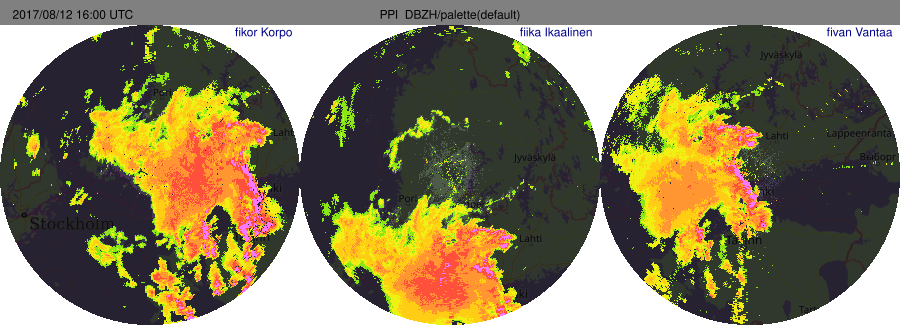
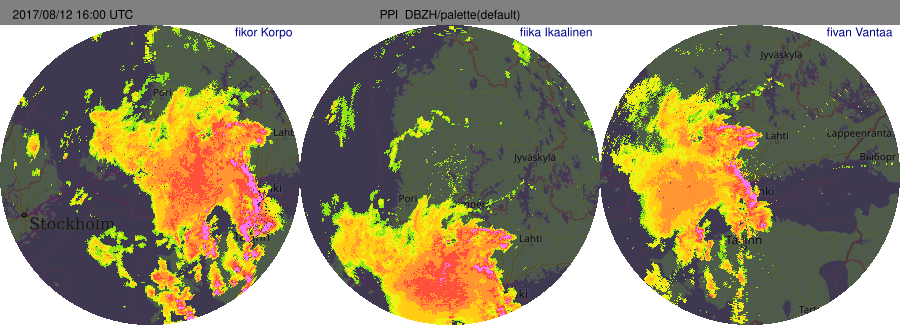
v10.7

diff --git a/docs/svgpage.html b/docs/svgpage.html
@@ -188,7 +188,7 @@ SVG panel example: Multiple styles.</div></div>
 <div class="caption">
 SVG panel example: Metadata panel.</div></div>
  <b>Background</b> maps. External images can be linked with <code>--gLinkImage</code>. For example, maps can be included, aligning the following radar image on top of it with <code>--gAlign</code> <code>HORZ_FILL</code>,VERT_FILL . </p><div class="fragment"><div class="line"><a class="code" href="namespacerack.html">rack</a> --outputPrefix $PWD/out/  \</div>
-<div class="line">   --gTitle <span class="stringliteral">&#39;&#39;</span> --gGroupTitle <span class="stringliteral">&#39;AUTO:&#39;</span> --inputPrefix $PWD/ --script <span class="stringliteral">&#39;--cReset --cProj 3067 --cSize 300 -Q DBZH -c --gLinkImage maps/map-radar:${NOD}-${where:EPSG}-${where:xsize}x${where:ysize}.png  --imageTransp 0.0:0.1,0.9,1 --palette default --gAlign HORZ_FILL,VERT_FILL  -o out-${what:date}T${what:time}-${NOD}.png&#39;</span> data-kiira/201708121600_radar.polar.fikor.h5 data-kiira/201708121600_radar.polar.fiika.h5 data-kiira/201708121600_radar.polar.fivan.h5 -o adding_background_maps.svg</div>
+<div class="line">   --gTitle <span class="stringliteral">&#39;&#39;</span> --gGroupTitle <span class="stringliteral">&#39;AUTO:&#39;</span> --inputPrefix $PWD/ --script <span class="stringliteral">&#39;--cReset --cProj 3067 --cSize 300 -Q DBZH -c --gLinkImage maps/map-radar:${NOD}-${where:EPSG}-${where:xsize}x${where:ysize}.png  --imageTransp 0.0:0.1,0,1 --palette default --gAlign HORZ_FILL,VERT_FILL  -o out-${what:date}T${what:time}-${NOD}.png&#39;</span> data-kiira/201708121600_radar.polar.fikor.h5 data-kiira/201708121600_radar.polar.fiika.h5 data-kiira/201708121600_radar.polar.fivan.h5 -o adding_background_maps.svg</div>
 </div><!-- fragment --><div class="image">
 <img src="adding_background_maps.png" alt=""/>
 <div class="caption">
